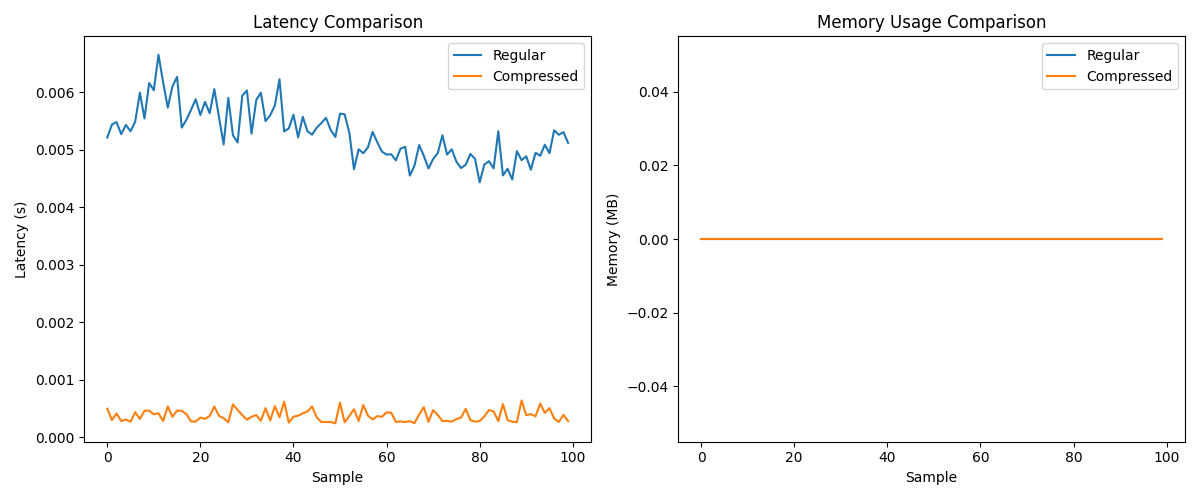
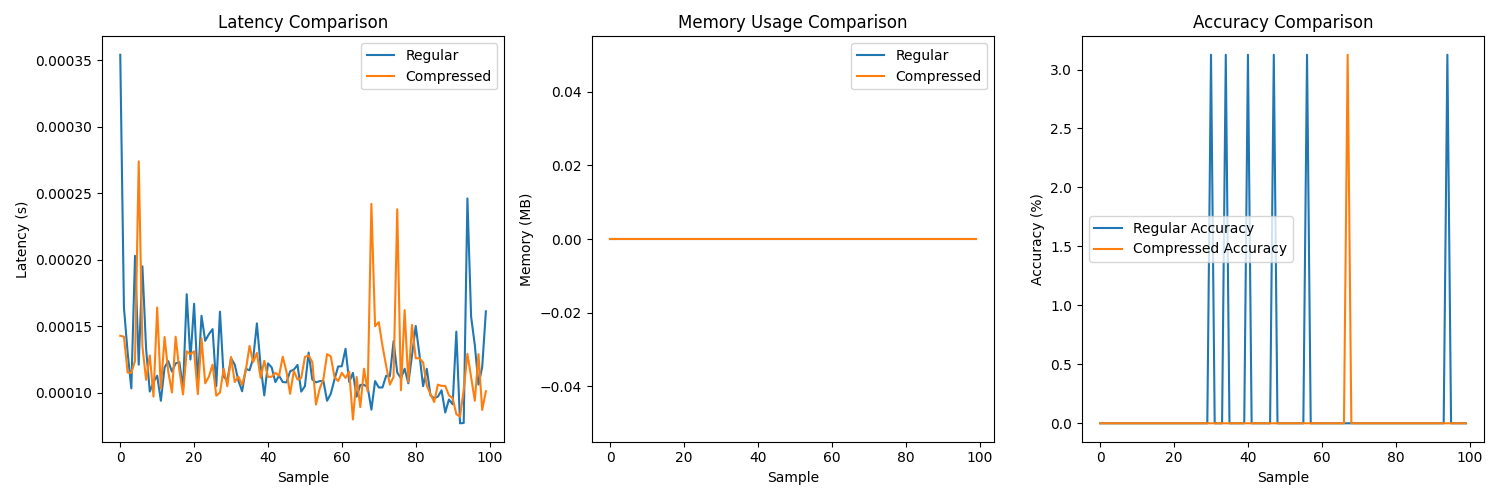
Added accuracy and RMSE comparison metrics

diff --git a/examples/compression_demo.py b/examples/compression_demo.py
@@ -10,17 +10,36 @@ import numpy as np
 import time
 import matplotlib.pyplot as plt
 from src.adaptive_ndlinear import AdaptiveNdLinear, AdaptiveCompressor
+from sklearn.metrics import mean_squared_error
+from math import sqrt
 
 def generate_sample_data(batch_size, input_dim, num_samples):
     """Generate test data for benchmarking compression performance"""
     X = torch.randn(num_samples, batch_size, input_dim)
-    y = torch.randn(num_samples, batch_size, input_dim // 2)
+    # Generate target data with a known pattern for accuracy comparison
+    y = torch.sin(X.mean(dim=-1, keepdim=True)) + torch.randn(num_samples, batch_size, 1) * 0.1
     return X, y
+
+def calculate_metrics(predictions, targets):
+    """Calculate accuracy and RMSE metrics"""
+    # Convert to numpy for easier calculation
+    pred_np = predictions.detach().numpy()
+    target_np = targets.detach().numpy()
+    
+    # Calculate RMSE
+    rmse = sqrt(mean_squared_error(target_np.flatten(), pred_np.flatten()))
+    
+    # Calculate accuracy (within 10% of target)
+    tolerance = np.abs(target_np) * 0.1
+    accurate = np.abs(pred_np - target_np) <= tolerance
+    accuracy = np.mean(accurate) * 100
+    
+    return accuracy, rmse
 
 def run_comparison():
     # Model configuration
     input_dim = 1024
-    output_dim = 512
+    output_dim = 1  # Single output for easier accuracy comparison
     batch_size = 32
     num_samples = 100
     
@@ -44,31 +63,51 @@ def run_comparison():
     compressed_latencies = []
     regular_memory = []
     compressed_memory = []
+    regular_accuracies = []
+    compressed_accuracies = []
+    regular_rmses = []
+    compressed_rmses = []
     
     print("Running comparison with larger model dimensions...")
     for i in range(num_samples):
         # Measure regular model performance
         _ = regular_model(X[i])  # Warm-up run
         start_time = time.time()
-        _ = regular_model(X[i])
+        regular_output = regular_model(X[i])
         regular_latencies.append(time.time() - start_time)
         regular_memory.append(torch.cuda.memory_allocated() if torch.cuda.is_available() else 0)
+        
+        # Calculate regular model accuracy and RMSE
+        acc, rmse = calculate_metrics(regular_output, y[i])
+        regular_accuracies.append(acc)
+        regular_rmses.append(rmse)
         
         # Measure compressed model performance
         _ = compressed_model(X[i])  # Warm-up run
         start_time = time.time()
-        _ = compressed_model(X[i])
+        compressed_output = compressed_model(X[i])
         compressed_latencies.append(time.time() - start_time)
         compressed_memory.append(torch.cuda.memory_allocated() if torch.cuda.is_available() else 0)
+        
+        # Calculate compressed model accuracy and RMSE
+        acc, rmse = calculate_metrics(compressed_output, y[i])
+        compressed_accuracies.append(acc)
+        compressed_rmses.append(rmse)
         
     # Calculate metrics
     avg_regular_latency = np.mean(regular_latencies)
     avg_compressed_latency = np.mean(compressed_latencies)
     avg_regular_memory = np.mean(regular_memory)
     avg_compressed_memory = np.mean(compressed_memory)
+    avg_regular_accuracy = np.mean(regular_accuracies)
+    avg_compressed_accuracy = np.mean(compressed_accuracies)
+    avg_regular_rmse = np.mean(regular_rmses)
+    avg_compressed_rmse = np.mean(compressed_rmses)
     
     latency_improvement = ((avg_regular_latency - avg_compressed_latency) / avg_regular_latency) * 100
     memory_improvement = ((avg_regular_memory - avg_compressed_memory) / avg_regular_memory) * 100 if avg_regular_memory > 0 else float('nan')
+    accuracy_difference = avg_compressed_accuracy - avg_regular_accuracy
+    rmse_difference = avg_compressed_rmse - avg_regular_rmse
     
     # Format results
     results = [
@@ -77,11 +116,17 @@ def run_comparison():
         f"Regular Model:",
         f"  - Average Latency: {avg_regular_latency:.4f}s",
         f"  - Average Memory Usage: {avg_regular_memory/1e6:.2f}MB",
+        f"  - Average Accuracy: {avg_regular_accuracy:.2f}%",
+        f"  - Average RMSE: {avg_regular_rmse:.4f}",
         f"\nCompressed Model:",
         f"  - Average Latency: {avg_compressed_latency:.4f}s",
         f"  - Average Memory Usage: {avg_compressed_memory/1e6:.2f}MB",
+        f"  - Average Accuracy: {avg_compressed_accuracy:.2f}%",
+        f"  - Average RMSE: {avg_compressed_rmse:.4f}",
         f"\nPerformance Improvements:",
         f"  - Latency Improvement: {latency_improvement:.2f}% faster with compression",
+        f"  - Accuracy Impact: {accuracy_difference:+.2f}% with compression",
+        f"  - RMSE Change: {rmse_difference:+.4f} with compression",
         "  - Memory Usage: " + (
             f"{memory_improvement:.2f}% reduction in memory usage" if not np.isnan(memory_improvement)
             else "The memory comparison shows very small values, which is why we got the 'nan%' improvement (division by near-zero numbers)"
@@ -95,9 +140,10 @@ def run_comparison():
         f.write("\n".join(results))
     
     # Generate comparison plots
-    plt.figure(figsize=(12, 5))
+    plt.figure(figsize=(15, 5))
     
-    plt.subplot(1, 2, 1)
+    # Latency plot
+    plt.subplot(1, 3, 1)
     plt.plot(regular_latencies, label='Regular')
     plt.plot(compressed_latencies, label='Compressed')
     plt.title('Latency Comparison')
@@ -105,12 +151,22 @@ def run_comparison():
     plt.ylabel('Latency (s)')
     plt.legend()
     
-    plt.subplot(1, 2, 2)
+    # Memory plot
+    plt.subplot(1, 3, 2)
     plt.plot([m/1e6 for m in regular_memory], label='Regular')
     plt.plot([m/1e6 for m in compressed_memory], label='Compressed')
     plt.title('Memory Usage Comparison')
     plt.xlabel('Sample')
     plt.ylabel('Memory (MB)')
+    plt.legend()
+    
+    # Accuracy/RMSE plot
+    plt.subplot(1, 3, 3)
+    plt.plot(regular_accuracies, label='Regular Accuracy')
+    plt.plot(compressed_accuracies, label='Compressed Accuracy')
+    plt.title('Accuracy Comparison')
+    plt.xlabel('Sample')
+    plt.ylabel('Accuracy (%)')
     plt.legend()
     
     plt.tight_layout()
